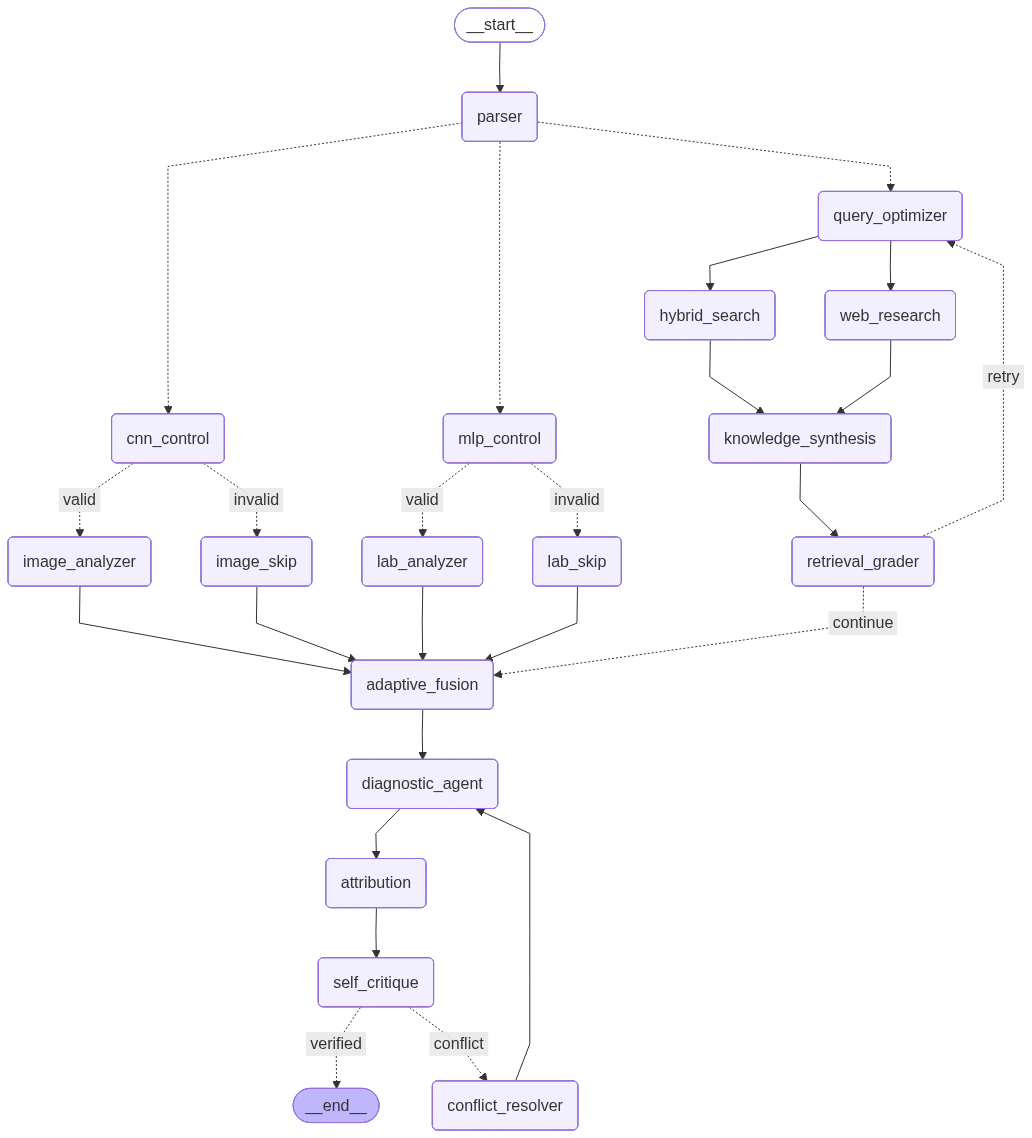
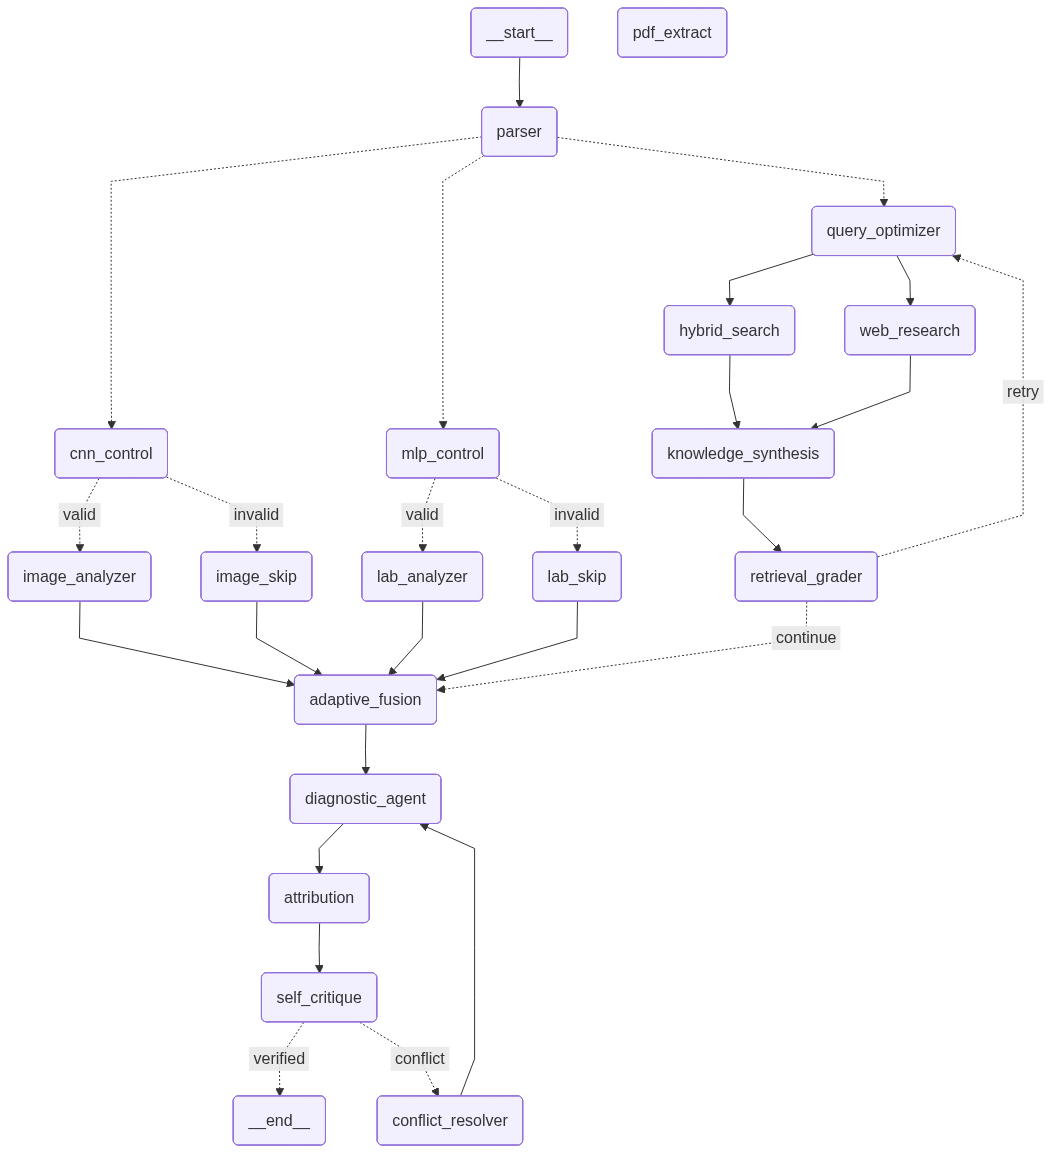
added extract_pdf_service and The Chunk and ChunkMetada classes have been fixed.

diff --git a/src/graph/nodes.py b/src/graph/nodes.py
@@ -11,6 +11,8 @@ from src.graph.services.image_analyzer_service import image_analyzer_service
 from src.graph.services.adaptive_fusion_service import adaptive_fusion_service
 from src.graph.services.diagnostic_agent_service import diagnostic_agent_service
 from src.graph.services.self_critique_service import self_critique_service
+from src.graph.services.extract_pdf_service import extract_text_with_pymupdf
+import os
 
 
 from src import logger
@@ -81,6 +83,33 @@ def image_skip_node(state: GraphState):
 }
     
     return {"image_analysis_results": skip_message}
+
+def document_loader_node(state: GraphState):
+    """
+    LangGraph akışının en başında çalışır. 
+    State'te bir PDF yolu varsa onu okur ve metni State'e yazar.
+    Böylece MLP Control Service doğrudan bu temiz metni kullanabilir.
+    """
+    print("\n📄 [DOCUMENT LOADER] Tahlil PDF'i sisteme yükleniyor ve metne çevriliyor...")
+    
+    # State'ten dosya yolunu al (Örn: "data/uploads/hasta_tahlil.pdf")
+    # Bunu GraphState sınıfına 'pdf_path' olarak eklemelisin.
+    pdf_path = state.get("pdf_path")
+    
+    if not pdf_path or not os.path.exists(pdf_path):
+        print("   ⚠ Geçerli bir PDF yolu bulunamadı.")
+        return {"raw_document_text": ""}
+
+    # PyMuPDF ile metni çıkar
+    extracted_text = extract_text_with_pymupdf(pdf_path)
+    
+    if extracted_text:
+        print("   ✅ PDF başarıyla okundu ve metin çıkarıldı.")
+    else:
+        print("   ⚠ PDF okundu ancak içinden metin çıkarılamadı (Taranmış/Görsel formatta olabilir).")
+
+    # Çıkarılan metni bir sonraki düğüm (mlp_control_service) için State'e yaz
+    return {"raw_document_text": extracted_text}
 
 def lab_gatekeeper_node(state: GraphState):
     """Lab verisi tutarlılığını kontrol eder."""

diff --git a/src/graph/services/extract_pdf_service.py b/src/graph/services/extract_pdf_service.py
@@ -1,0 +1,25 @@
+import fitz
+
+def extract_text_with_pymupdf(pdf_path: str) -> str:
+    """
+    Belirtilen PDF dosyasını okur ve metinleri çıkarır.
+    'sort=True' parametresi tahlil tablolarının hizasını korumak için hayatidir.
+    """
+    text = ""
+    try:
+        # PDF dosyasını aç (Hızlı C++ motoru devreye girer)
+        doc = fitz.open(pdf_path)
+        
+        for page_num in range(len(doc)):
+            page = doc.load_page(page_num)
+            
+            # sort=True: Metin bloklarını okuma sırasına göre dizer (Tablolar için şart)
+            page_text = page.get_text("text", sort=True)
+            text += page_text + "\n"
+            
+        doc.close()
+        return text.strip()
+        
+    except Exception as e:
+        print(f"❌ [PDF PARSER] Dosya okuma hatası: {str(e)}")
+        return ""

diff --git a/src/schemas/chunk.py b/src/schemas/chunk.py
@@ -10,7 +10,7 @@ class ChunkMetadata:
     end_index: int
     total_doc_size: int
     page_number: Optional[int] = None
-    citation_id:Optional[str]
+    citation_id: Optional[str] = None  # <-- HATA BURADAYDI, "= None" EKLENDİ
 
 @dataclass
 class Chunk:
@@ -18,7 +18,7 @@ class Chunk:
     metadata: ChunkMetadata
     chunk_id: str = field(init=False)
     score: Optional[float] = None # bm25 + semantic search score
-    reranker_score:Optional[float] = None # reranker score
+    reranker_score: Optional[float] = None # reranker score
 
     def __post_init__(self):
         """Nesne yaratıldığı an bu metod çalışır ve ID'yi generate eder."""

diff --git a/src/graph/workflow.py b/src/graph/workflow.py
@@ -65,6 +65,8 @@ workflow.add_node(NodeNames.RETRIEVAL_GRADER.value, retrieval_grader_node)
 workflow.add_node(NodeNames.CNN_CONTROL.value, image_gatekeeper_node)
 workflow.add_node(NodeNames.IMAGE_ANALYZER.value, image_analyzer_node)
 workflow.add_node(NodeNames.IMAGE_SKIP.value, image_skip_node)
+
+workflow.add_node(NodeNames.PDF_EXTRACT.value, document_loader_node)
 workflow.add_node(NodeNames.MLP_CONTROL.value, lab_gatekeeper_node)
 workflow.add_node(NodeNames.LAB_ANALYZER.value, lab_analyzer_node)
 workflow.add_node(NodeNames.LAB_SKIP.value, lab_skip_node)

diff --git a/src/graph/services/web_research_service.py b/src/graph/services/web_research_service.py
@@ -3,7 +3,7 @@ from typing import List
 from langchain_community.tools.tavily_search import TavilySearchResults
 from src.graph.state import GraphState
 from src.graph.enum.system_status import SystemStatus
-from src.schemas.node_schemas.rag_schemas import Chunk, ChunkMetadata
+from src.schemas.chunk import Chunk , ChunkMetadata
 from src.vectorstores.reranker import RerankerService # Senin servisin
 from src import logger
 

diff --git a/src/graph/enum/node_names.py b/src/graph/enum/node_names.py
@@ -10,6 +10,7 @@ class NodeNames(str, Enum):
     CNN_CONTROL = "cnn_control"  
     IMAGE_ANALYZER = "image_analyzer"
     IMAGE_SKIP = "image_skip"
+    PDF_EXTRACT = "pdf_extract"
     MLP_CONTROL = "mlp_control"  
     LAB_ANALYZER = "lab_analyzer"
     LAB_SKIP = "lab_skip"
